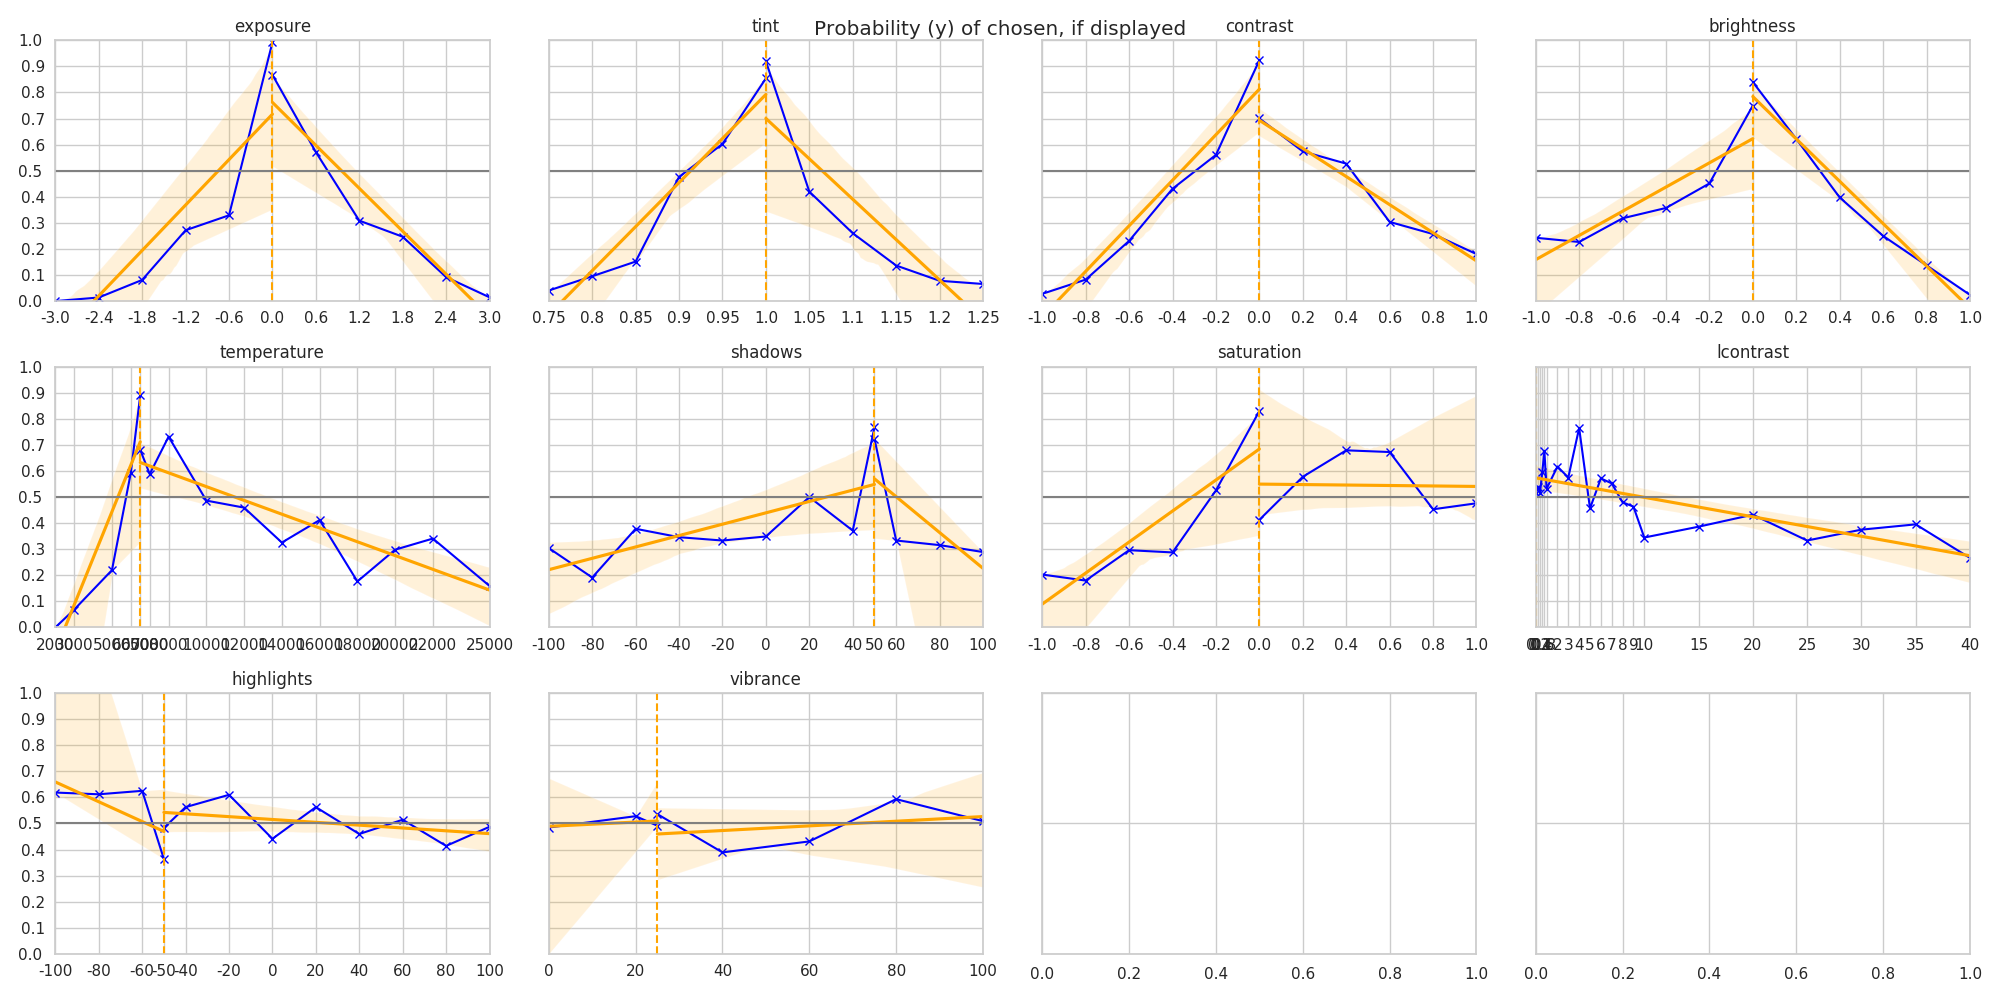
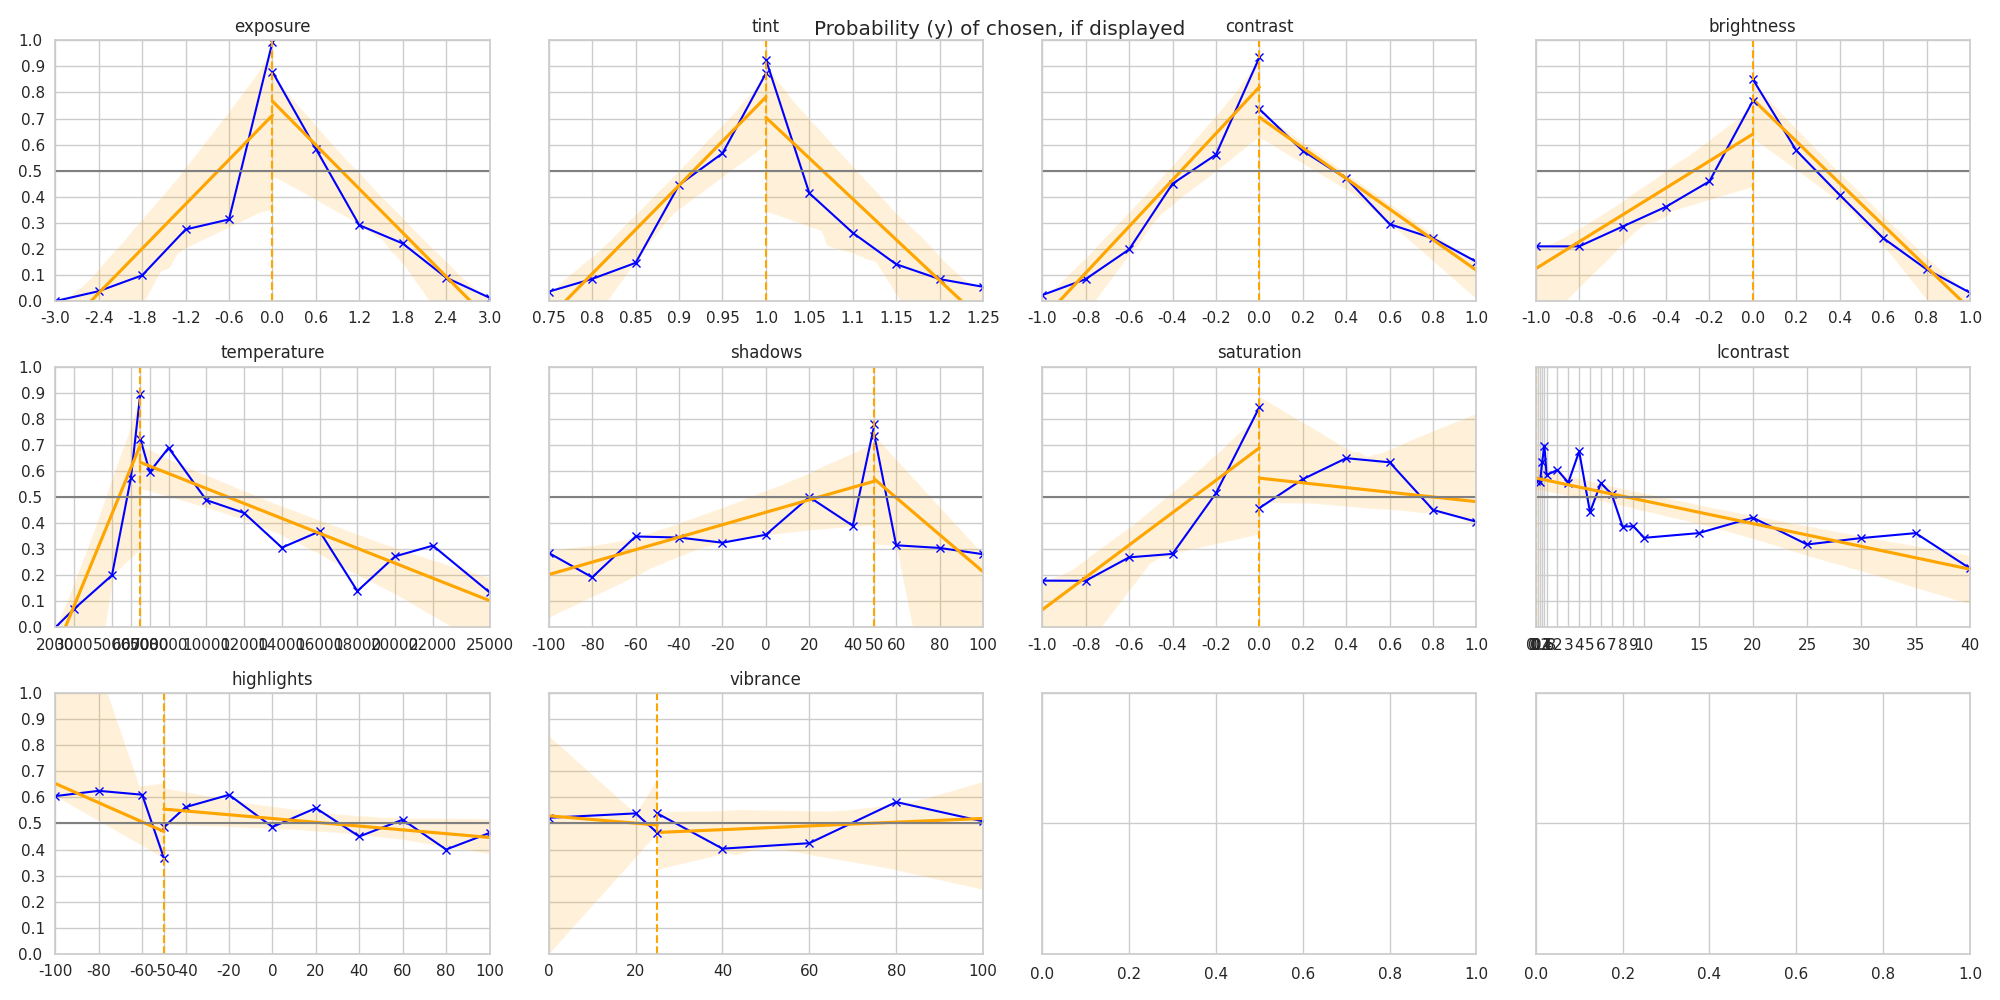
updated plots

diff --git a/survey/analyser.py b/survey/analyser.py
@@ -18,8 +18,8 @@ from edit_image import parameter_range
 
 sns.set(style="whitegrid")
 
-submission_log = Path.home() / "eclipse-workspace" / "NIAA" / "survey" / "survey.csv"  # type: Path
-submission_log = Path("/scratch") / "stud" / "pfister" / "NIAA" / "pexels" / "logs" / "survey_NIMA.csv"  # type: Path
+submission_csv = Path.home() / "eclipse-workspace" / "NIAA" / "survey" / "survey.csv"  # type: Path
+# submission_csv = Path("/scratch") / "stud" / "pfister" / "NIAA" / "pexels" / "logs" / "survey_NIMA.csv"  # type: Path
 plot_dir = Path.home() / "eclipse-workspace" / "NIAA" / "analysis" / "survey"  # type: Path
 
 plot_dir.mkdir(parents=True, exist_ok=True)
@@ -39,7 +39,7 @@ try:
 except:
     print("no redis connection available => 'kctl port-forward svc/redis 7000:6379'")
 
-sub_df = pd.read_csv(submission_log, parse_dates=["loadTime", "submitTime"])  # type: pd.DataFrame
+sub_df = pd.read_csv(submission_csv)  # type: pd.DataFrame
 # data reading done
 
 print()
@@ -291,7 +291,7 @@ for i, key in enumerate(params):
     axs[i].set_ylim(bottom=0, top=1)
     tmp = list(zip(*sorted(analyzeDict[key]["chosenChangesPos"].items(), key=lambda k: k[0])))
     axs[i].plot(tmp[0], tmp[1], "-x", color="blue", label="probability of chosen if displayed")
-    sns.regplot(tmp[0], tmp[1], scatter=False, color="orange", label="linear regression", ax=axs[i])
+    sns.regplot(list(tmp[0]), list(tmp[1]), scatter=False, color="orange", label="linear regression", ax=axs[i])
 
     axs[i].grid(True, which="both")
     axs[i].minorticks_on()
@@ -306,7 +306,7 @@ for i, key in enumerate(params):
     tmp = list(zip(*sorted(analyzeDict[key]["chosenChangesNeg"].items(), key=lambda k: k[0])))
     if len(tmp) > 1:
         axs[i].plot(tmp[0], tmp[1], "-x", color="blue")
-        sns.regplot(tmp[0], tmp[1], scatter=False, color="orange", ax=axs[i])
+        sns.regplot(list(tmp[0]), list(tmp[1]), scatter=False, color="orange", ax=axs[i])
 
     axs[i].axhline(y=0.5, linestyle="-", color="grey", label="equally likely clicked")
     axs[i].axvline(x=parameter_range[key]["default"], linestyle="--", color="orange", label="original image")
@@ -316,7 +316,7 @@ for i, key in enumerate(params):
     axs_orig[i].set_ylim(bottom=0, top=1)
     tmp = list(zip(*sorted(analyzeDict[key]["chosenChangesOrigPresentPos"].items(), key=lambda k: k[0])))
     axs_orig[i].plot(tmp[0], tmp[1], "-x", color="blue", label="probability of chosen if displayed")
-    sns.regplot(tmp[0], tmp[1], scatter=False, color="orange", label="linear regression", ax=axs_orig[i])
+    sns.regplot(list(tmp[0]), list(tmp[1]), scatter=False, color="orange", label="linear regression", ax=axs_orig[i])
 
     axs_orig[i].grid(True, which="both")
     axs_orig[i].minorticks_on()
@@ -331,7 +331,7 @@ for i, key in enumerate(params):
     tmp = list(zip(*sorted(analyzeDict[key]["chosenChangesOrigPresentNeg"].items(), key=lambda k: k[0])))
     if len(tmp) > 1:
         axs_orig[i].plot(tmp[0], tmp[1], "-x", color="blue")
-        sns.regplot(tmp[0], tmp[1], scatter=False, color="orange", ax=axs_orig[i])
+        sns.regplot(list(tmp[0]), list(tmp[1]), scatter=False, color="orange", ax=axs_orig[i])
     axs_orig[i].axhline(y=0.5, linestyle="-", color="grey", label="equally likely clicked")
     axs_orig[i].axvline(x=parameter_range[key]["default"], linestyle="--", color="orange", label="original image")
 
@@ -390,7 +390,7 @@ print()
 
 plt.figure()
 print("decision duration:")
-durations = (sub_df.submitTime - sub_df.loadTime).astype("timedelta64[s]")
+durations = sub_df["RTT(s)"]
 
 no_afk_durations = durations[durations < 60]
 print(f"average time for decision: {'{:.1f}'.format(no_afk_durations.mean())} seconds")
